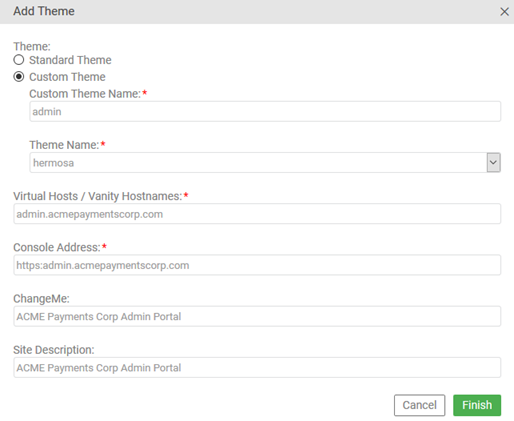
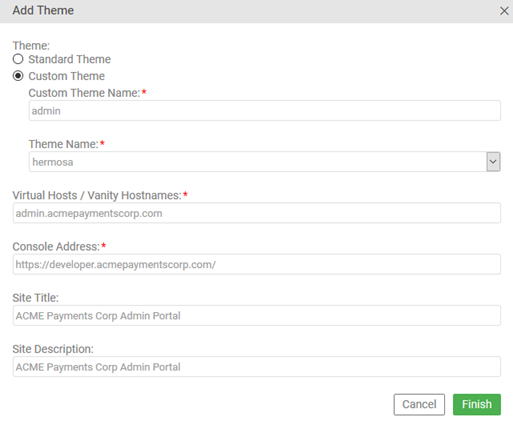
ATMO-31831 use case re separate themes, edits from AB

diff --git a/cm/customization/customize_example_separate_themes.htm b/cm/customization/customize_example_separate_themes.htm
@@ -43,8 +43,8 @@ nav-title: Customization Example - Separate Themes
 
 <h3 id="backup">Preparation:</h3>
 <ol>
-	<li>It's important that the Admin Portal is accessible at all times. In case there is any error or issue with creating new themes, this is the back door so that you can fix as needed. One easy way to do is to add a Default theme and assign a virtual host with Site Admin domain access which will not be used in the new themes. The virtual host should be unique per theme. If you already have a Default theme, make sure Site Admin access is available.</li>
-	<li>The new <strong>developer</strong> and <strong>admin</strong> themes must have unique virtual host names. Make sure you have you have them ready.<strong> <span class="apidoc_red">“admin” theme Virtual Host names should be configured to Site Admin Domains</span>.</strong></li>
+	<li>It's important that the Admin Portal is accessible at all times. In case there is any error or issue with creating new themes, this is the back door so that you can fix as needed. One easy way to do this is to add a Hermosa theme and assign a virtual host which will not be used in the new themes. The virtual host must be unique per theme. If you already have a Hermosa theme, make sure Site Admin access is available.</li>
+	<li>The new <strong>developer</strong> and <strong>admin</strong> themes must have unique virtual host names. Make sure you have you have them ready.<strong> </strong></li>
 </ol>
 
 
@@ -56,9 +56,9 @@ nav-title: Customization Example - Separate Themes
 	<li>In the <strong>Resources</strong> section, click <strong>File Manager</strong>. Download the customization files to a safe location.	</li>
 	<li>In <strong>Admin</strong> &gt; <strong>Site</strong>:
 <ul>
-			<li>Make sure you added out-of-the-box Hermosa theme as one of the themes. This is required to support extending from Hermosa theme. This dependency will be removed from 2019.1.11. {<span class="apidoc_red">AB: you're not talking about the installation option... right? Please clarify what the change is.</span>}</li>
-			<li>If the Virtual Host/Vanity Hostnames which we will be using for new <strong>admin</strong> theme and“<strong>developer</strong> theme are already in use for any other themes, make sure you delete them from those themes. The virtual host should be unique per theme. {<span class="apidoc_red">AB: should be, or must be?</span>}</li>
-			<li>Delete all the directories in /theme/ directory. <span class="apidoc_red"><strong>Usually you may /default and /hermosa directories</strong></span> in theme directory. {<span class="apidoc_p_subsequent">query wording</span>}</li>
+			<li><strong>Versions prior to 2019.1.11 only</strong>: Make sure you added out-of-the-box Hermosa theme as one of the themes, required to support extending from Hermosa theme. In 2019.1.11 and later, this is not required.</li>
+			<li>If the Virtual Host/Vanity Hostnames which we will be using for new <strong>admin</strong> theme and <strong>developer</strong> theme are already in use for any other themes, make sure you delete them from those themes. The virtual host must be unique per theme.</li>
+			<li>Delete all the directories in /theme/ directory. There might be /default and /hermosa directories in the theme&nbsp;directory.</li>
 			<li>For the Default Theme that's used for the Admin Portal, change the name in the <strong>Virtual Host/Vanity Hostnames column</strong>.</li>
 		</ul>
 		</li>
@@ -81,7 +81,7 @@ nav-title: Customization Example - Separate Themes
 			<li>Enter a Site Title and Description.</li>
 			<li>Access the <strong>developer</strong> theme and make sure everything is working.</li>
 			</ul>
-		<p>An example of the configuration for the Developer Portal is shown below:  {<span class="apidoc_red">AB I updated with the slash but will have to do it again...&nbsp;need the field label change</span>}</p>
+		<p>An example of the configuration for the Developer Portal is shown below:</p>
 		<p><img src="uc_separate_themes/custom_eg_create_theme_developer.png"alt="adding the Developer theme"/></p>
 	</ul></li>
 	<li>Add a theme for the Admin Portal:
@@ -94,31 +94,33 @@ nav-title: Customization Example - Separate Themes
 		<li>Enter a Site Title and Description.</li>
 		<li>Access the <strong>admin</strong> theme and make sure everything is working.</li>
 	</ul>
-	<p>An example of the configuration for the Admin Portal is shown below: {<span class="apidoc_red">image update below is to do when field label change is done</span>}</p>
+	<p>An example of the configuration for the Admin Portal is shown below:</p>
 	<p><img src="uc_separate_themes/custom_eg_create_theme_admin.png"alt="adding the Admin theme"/></p></ul></li>
 	<li>For the <strong>developer</strong> theme customizations:
 		<ul>
 			<li>Go to <strong>Admin</strong> &gt; <strong>Config</strong> &gt; <strong>Resources</strong>.</li>
 			<li>In the <strong>Resources</strong> section, click <strong>File Manager</strong>. Navigate to the <strong>theme</strong> directory.</li>
 			<li>Create a <strong>theme/developer</strong> folder structure, and then upload the customization files you require for the <strong>developer</strong> theme.
-				<p><strong>Note</strong>: Don’t upload the entire ZIP file that you downloaded in <a href="#backup_prep">Backup and Preparation</a> above. The ZIP file might contain “<strong>theme/hermosa</strong>” and “<strong>theme/default</strong>” directories, and if you upload these you will customze the out-of-the-box Hermosa theme and out-of-the-box Default theme.</p></li>
+				<p><strong>Note</strong>: Don’t upload the entire ZIP file that you downloaded in <a href="#backup_prep">Backup and Preparation</a> above. The ZIP file might contain <strong>theme/hermosa</strong> and <strong>theme/default</strong> directories, and if you upload these you will customize the out-of-the-box Hermosa theme and out-of-the-box Default theme.</p></li>
 			<li>Rebuild styles for the <strong>developer</strong> theme, only if you have custom.less in your customization files.</li>
 			</ul>
-	<p>After creating the additional themes, the Site Themes should look similar to the below: {<span class="apidoc_red">AB: You said the screenshot is incorrect. Need help with this part.</span>}</p>
-	<p><img src="uc_separate_themes/custom_eg_themes_list.png"alt="themes list"/></p>
+	<p>After creating the additional themes, the Site Themes should look similar to the example below that corresponds to your version.</p>
+	<p><strong>Versions prior to 2019.11:</strong></p>
+	<p><img src="uc_separate_themes/custom_eg_themes_list_up_to_2019_1_11.png"alt="themes list for versions prior to 2019.1.11"/></p>
+<p><strong>Version 2019.1.11 and later:</strong></p>
+	<p><img src="uc_separate_themes/custom_eg_themes_list_2019_1_11_and_later.png"alt="themes list"/></p>
 	</li>
-	<li>Optional: if needed, customize the <strong>admin</strong> theme also. See <a href="#xxx">xxx</a> below.</li>
+	<li>If needed, customize the <strong>admin</strong> theme also. See <a href="#customize_theme_admin">Optional: customizing the admin theme</a> below.</li>
 </ol>
-	<h4 id="">Optional: customizing the admin theme</h4>
+	<h4 id="customize_theme_admin">Optional: customizing the admin theme</h4>
 <ol>
 	
 		<li>Go to <strong>Admin</strong> &gt; <strong>Config</strong> &gt; <strong>Resources</strong>.</li>
 			<li>In the <strong>Resources</strong> section, click <strong>File Manager</strong>. Navigate to the <strong>theme</strong> directory.</li>
 			<li>Create a <strong>theme/admin</strong> folder structure, and then upload the customization files you require for the <strong>admin</strong> theme.
-				<p><strong>Note</strong>: Don’t upload the entire ZIP file that you downloaded in <a href="#backup_prep">Backup and Preparation</a> above. The ZIP file might contain “<strong>theme/hermosa</strong>” and “<strong>theme/default</strong>” directories, and if you upload these you will customze the out-of-the-box Hermosa theme and out-of-the-box Default theme.</p>
+				<p><strong>Note</strong>: Don’t upload the entire ZIP file that you downloaded in <a href="#backup_prep">Backup and Preparation</a> above. The ZIP file might contain <strong>theme/hermosa</strong> and <strong>theme/default</strong> directories, and if you upload these you will customize the out-of-the-box Hermosa theme and out-of-the-box Default theme.</p>
 			</li>
 			<li>Rebuild styles for the <strong>developer</strong> theme, only if you have custom.less in your customization files.</li>
-		<li></li>
 </ol>
 <p><a href="#top">Back to top</a></p>
 
@@ -132,10 +134,10 @@ nav-title: Customization Example - Separate Themes
 
 
 
-<h2 id="email_templates">Email Templates</h2>
-<p>{<span class="apidoc_red">AB: can this entire section just come out, for 2019.1.11 and later?</span>}</p>
-<p>In this use case, since both the Developer and the Admin portals are using the Hermosa theme, not Default theme, you will also need to add the email template variables, to the THEME_IMPL_PROPERTIES table. Each of the templates that exist should be inserted for a THEMEIMPL set to hermosa.</p>
-<p>{<span class="apidoc_red">CR04: is this only because this customer has customized email templates? Or is this general to setting up custom themes?</span>}</p>
+<h2 id="email_templates">Customize Email Templates (versions earlier than 2019.1.11)</h2>
+<p><strong>Note</strong>: In version 2019.1.11 and later, customizing the email templates is not needed.</p>
+<!--<p>{<span class="apidoc_red">ATMO-31953</span>}</p>-->
+<p>In this use case, since both the <strong>developer</strong> and the <strong>admin</strong> themes are based on the Hermosa theme, not Default theme, you will also need to add the email template variables to the THEME_IMPL_PROPERTIES table. Each of the templates that exist must be inserted for a THEMEIMPL set to hermosa.</p>
 <p>An example query is shown below. Run this query to insert all the values for the hermosa theme.</p>
 <pre>insert into THEME_IMPL_PROPERTIES (THEMEIMPL,PROPERTY_NAME,PROPERTY_VALUE) VALUES ('hermosa','home.login.registration.path','home/login/{registration.code}');</pre>
 <p>An example of the variables to update, in the database, is shown below.</p>
